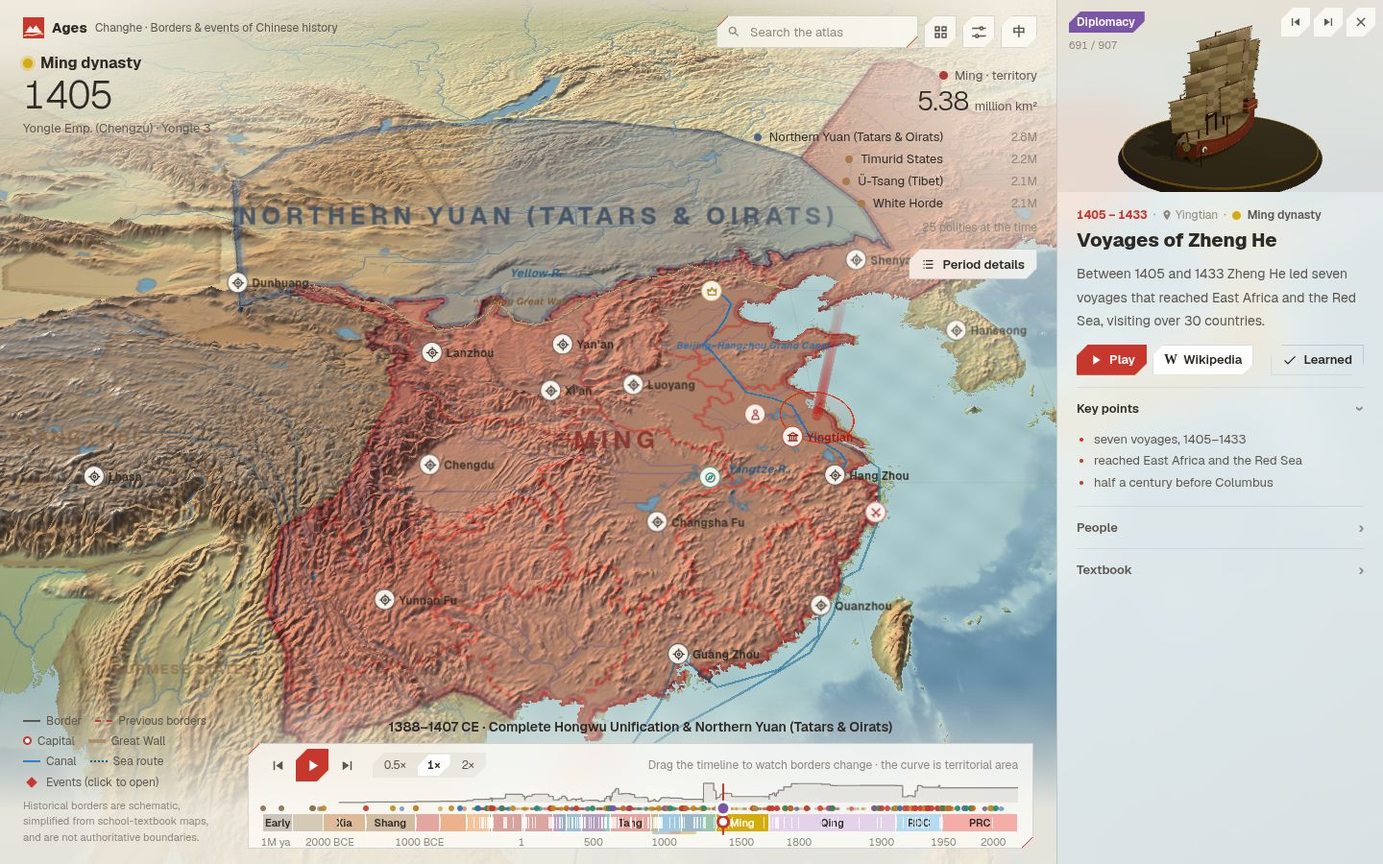
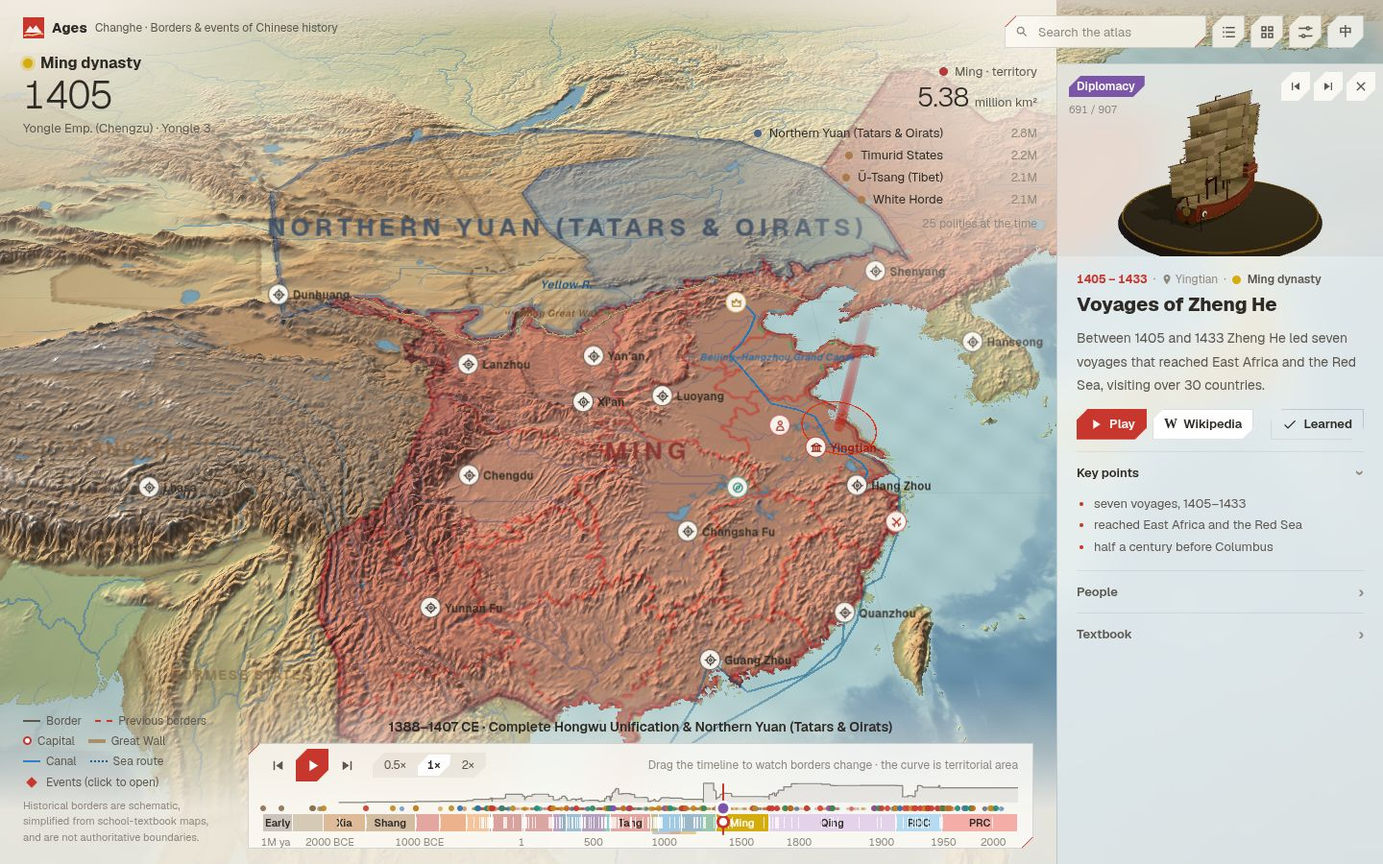
Fixed top-right toolbar with the period-details button; drawer opens below it
- One toolbar row (search, details, hub, settings, language) stays in the corner; the drawer starts under it
- No hover tooltip right after a click opens a card until the pointer moves
- Harden the journeys e2e pin hover against the camera settling

diff --git a/src/client/styles.css b/src/client/styles.css
@@ -46,6 +46,7 @@
   --ease-out: cubic-bezier(.2, .8, .2, 1);
   --gap: 12px;
   --pw: 340px;
+  --bar-h: 66px; /* the toolbar row and its margins: the drawer and the period figures start below it */
   --scrim: rgba(246, 241, 231, 0.88);
   --k-prehistory: #8a6f52; --k-politics: #c08a1e; --k-war: #c8372d; --k-reform: #2f8a57; --k-culture: #2f6fb0;
   --k-science: #1c8c7c; --k-economy: #c06a24; --k-diplomacy: #7b55a8; --k-revolution: #d23f2f;
@@ -374,7 +375,9 @@ b.w { font-family: 'Linux Libertine', 'Times New Roman', serif; font-weight: 700
 .tl-ruler:empty { display: none; }
 
 /* tools (top right): search · study hall · settings · language, with their popovers below */
-.hud-tr { top: 16px; right: 20px; width: 340px; display: flex; flex-direction: column; align-items: flex-end; }
+/* the toolbar: one row fixed in the top-right corner over the map and the drawer; its popovers drop below it */
+.bar { position: absolute; top: 16px; right: 20px; z-index: 9; }
+.hud-tr { top: var(--bar-h); right: 20px; width: 340px; display: flex; flex-direction: column; align-items: flex-end; }
 .tools { display: flex; align-items: center; gap: 6px; }
 .tools > .ib { width: 34px; height: 34px; background: var(--panel); border: 1px solid var(--rule-2); -webkit-backdrop-filter: var(--glass); backdrop-filter: var(--glass); }
 .tools > .ib:hover { background: var(--panel-solid); }
@@ -408,7 +411,7 @@ b.w { font-family: 'Linux Libertine', 'Times New Roman', serif; font-weight: 700
 .hits .yr { color: var(--ink-3); font-size: var(--t-2xs); font-variant-numeric: tabular-nums; }
 
 /* the period's figures (top right, under the tools): realm area in large light type, the largest coexisting polities */
-.hud-stats { margin-top: 20px; display: flex; flex-direction: column; align-items: flex-end; text-align: right; transition: opacity .4s; }
+.hud-stats { display: flex; flex-direction: column; align-items: flex-end; text-align: right; transition: opacity .4s; }
 .st-k { margin: 0; display: flex; align-items: center; gap: 7px; font-size: var(--t-s); color: var(--ink-2); }
 .st-k i { width: 9px; height: 9px; border-radius: 50%; background: var(--c); }
 .st-n { margin: 4px 0 0; display: flex; align-items: baseline; gap: 6px; }
@@ -420,12 +423,6 @@ b.w { font-family: 'Linux Libertine', 'Times New Roman', serif; font-weight: 700
 .st-pol small { min-width: 7.5em; text-align: right; font-size: var(--t-xs); color: var(--ink-3); font-variant-numeric: tabular-nums; }
 .st-pol:hover span { color: var(--zhu); }
 .st-c { margin: 6px 0 0; font-size: var(--t-xs); color: var(--ink-3); }
-.st-more {
-  margin-top: 14px; display: inline-flex; align-items: center; gap: 7px; height: 32px; padding: 0 12px; border: 1px solid var(--rule-2);
-  background: var(--panel); -webkit-backdrop-filter: var(--glass); backdrop-filter: var(--glass); font-size: var(--t-s); font-weight: 600; color: var(--ink);
-}
-.st-more .ic { width: 15px; height: 15px; fill: currentColor; }
-.st-more:hover, .st-more.on { color: var(--zhu); background: var(--panel-solid); --edge: var(--zhu); }
 
 /* the foot: line key (left) and the phase line / story caption over the timeline (centre) */
 .hud-bot { left: 24px; right: 24px; bottom: 16px; display: grid; grid-template-columns: 230px minmax(0, 1fr) 230px; gap: 24px; align-items: end; }
@@ -511,8 +508,8 @@ b.w { font-family: 'Linux Libertine', 'Times New Roman', serif; font-weight: 700
    details at the base, then whatever was opened last on top (card, textbook, reader, quiz); only the top view is drawn,
    so closing it reveals the one beneath. */
 .panel {
-  position: absolute; top: 0; right: 0; bottom: 0; width: var(--pw); z-index: 8; background: var(--panel); color: var(--ink);
-  -webkit-backdrop-filter: var(--glass); backdrop-filter: var(--glass); border-left: 1px solid var(--rule-2);
+  position: absolute; top: var(--bar-h); right: 0; bottom: 0; width: var(--pw); z-index: 8; background: var(--panel); color: var(--ink);
+  -webkit-backdrop-filter: var(--glass); backdrop-filter: var(--glass); border-left: 1px solid var(--rule-2); border-top: 1px solid var(--rule-2);
   transform: translateX(100%); visibility: hidden; transition: transform .35s var(--ease-out), visibility 0s .35s;
 }
 .panel.on { transform: none; visibility: visible; transition: transform .35s var(--ease-out); }
@@ -855,11 +852,11 @@ i.seen { color: var(--k-economy); font-style: normal; margin-left: auto; }
 /* ================================================================ narrower screens */
 /* ================================================================ small cut-corner slabs: buttons, chips, map labels
    (after the component rules so their background shorthands don't drop the cut lines) */
-.btn, .chip, .type-chip, .badge, .tag, .tl-play, .ib, .hub-card, .opt, .qz-mode, .sw, .stats > div, .seg, .seg button, .tabs, .tabs button, .st-more, .pq-opt {
+.btn, .chip, .type-chip, .badge, .tag, .tl-play, .ib, .hub-card, .opt, .qz-mode, .sw, .stats > div, .seg, .seg button, .tabs, .tabs button, .pq-opt {
   --cut: 6px; border-radius: 0 !important; clip-path: var(--pp-clip);
 }
 .ib, .seg button, .tabs button { --cut: 5px; }
-.btn, .hub-card, .opt, .qz-mode, .sw, .chip, .tools > .ib, .st-more { background-image: var(--pp-cuts); --edge: var(--rule-2); }
+.btn, .hub-card, .opt, .qz-mode, .sw, .chip, .tools > .ib { background-image: var(--pp-cuts); --edge: var(--rule-2); }
 .btn:focus-visible, .chip:focus-visible, .ib:focus-visible, .hub-card:focus-visible, .opt:focus-visible, .seg button:focus-visible, .tabs button:focus-visible { outline-offset: -2px; }
 .btn.primary, .sw.on, .qz-mode.on, .opt.no, .chip.link:hover { --edge: var(--zhu); }
 .opt.ok { --edge: var(--ok); }
@@ -869,7 +866,7 @@ i.seen { color: var(--k-economy); font-style: normal; margin-left: auto; }
   .tl-hint { display: none; }
   #app.panel-on:not(.story-on) .hud-bot { grid-template-columns: minmax(0, 1fr); }
   #app.panel-on .hud-bl { display: none; }
-  #app.panel-on .hud-stats > :not(.st-more) { display: none; }
+  #app.panel-on .hud-stats { display: none; }
 }
 @media (max-width: 960px) {
   .hud-bot, #app.panel-on:not(.story-on) .hud-bot { grid-template-columns: minmax(0, 1fr); }
@@ -888,13 +885,11 @@ i.seen { color: var(--k-economy); font-style: normal; margin-left: auto; }
   .tl-era { font-size: var(--t-m); }
   .tl-year { font-size: var(--t-2xl); }
   .tl-ruler { font-size: var(--t-xs); }
-  .hud-tr { top: 12px; right: 10px; width: auto; }
+  .bar { top: 12px; right: 10px; }
   .tools { gap: 4px; }
-  .search, .search:focus-within { width: 132px; }
+  .search, .search:focus-within { width: 112px; }
   .hits, .menu { position: fixed; top: 56px; left: 8px; right: 8px; width: auto; max-height: calc(100% - var(--tl-b, 120px) - 64px); }
-  .hud-stats { margin-top: 12px; }
-  .hud-stats > :not(.st-more) { display: none; }
-  .st-more { margin-top: 0; }
+  .hud-tr { display: none; }
   .hud-bot { left: 8px; right: 8px; bottom: 8px; gap: 6px; }
   .amb { font-size: var(--t-s); }
   .tl { padding: 2px 10px 0; }

diff --git a/src/client/ui/period.ts b/src/client/ui/period.ts
@@ -10,7 +10,7 @@ import { periodQuestion } from '../../shared/lib/quiz.ts';
 import { eraAt, formatYear } from '../../shared/lib/timeline.ts';
 import { lang, t, type Key } from '../lib/i18n.ts';
 import { load, save } from '../lib/storage.ts';
-import { fill, h, icon, iconBtn } from './dom.ts';
+import { fill, h, iconBtn } from './dom.ts';
 
 const ROLE_ORDER: Polity['role'][] = ['main', 'rival', 'occupied', 'protectorate', 'neighbor'];
 const WORK_COLOR: Record<string, string> = { wall: '#a8916a', canal: '#2f7fc4', road: '#8a5a2b', sea: '#1f5f8b' };
@@ -26,7 +26,8 @@ function areaParts(k: number, l: Lang): [string, string] {
 
 /**
  * The territorial period at the timeline's year, shown at three depths:
- * - `stats` (map, top right): the realm's area in large type, the largest coexisting polities and the 时期详情 button;
+ * - `btn` (the top-right toolbar): the 时期详情 toggle;
+ * - `stats` (map, top right, under the toolbar): the realm's area in large type and the largest coexisting polities;
  * - `line` (map, bottom centre): the phase title as an ambient caption;
  * - `key` (map, bottom left): the line legend and the border disclaimer;
  * - `view` (the drawer's base view, 时期详情), by priority: the overview (span, phase stepper, title, dynasty · capital ·
@@ -47,7 +48,7 @@ export class Period {
   private check: HTMLDetailsElement;
   private checkSum: HTMLElement;
   private checkBody: HTMLElement;
-  private moreBtn: HTMLButtonElement;
+  readonly btn: HTMLButtonElement;
   private sig = '';
   private year: Year = 0;
   onYear: (y: Year) => void = () => {};
@@ -59,7 +60,8 @@ export class Period {
   onClose: () => void = () => {};
 
   constructor() {
-    this.moreBtn = h('button', { type: 'button', class: 'st-more', 'aria-expanded': 'false', onclick: () => this.onDetails() }, icon('list'), h('span'));
+    this.btn = iconBtn('list', t('details'), () => this.onDetails(), 'b-details');
+    this.btn.setAttribute('aria-expanded', 'false');
     this.stats = h('div', { class: 'hud-stats' });
     this.line = h('button', { type: 'button', class: 'amb', onclick: () => this.onDetails() });
     this.key = h('div', { class: 'map-key' });
@@ -83,8 +85,8 @@ export class Period {
 
   /** Marks the 时期详情 button pressed while the view is open. */
   pressed(on: boolean): void {
-    this.moreBtn.classList.toggle('on', on);
-    this.moreBtn.setAttribute('aria-expanded', String(on));
+    this.btn.classList.toggle('on', on);
+    this.btn.setAttribute('aria-expanded', String(on));
   }
 
   setYear(y: Year): void {
@@ -108,7 +110,7 @@ export class Period {
   // ------------------------------------------------------------ map overlay
 
   private renderStats(ph: Phase | null): void {
-    if (!ph) { fill(this.stats, this.moreBtn); return; }
+    if (!ph) { fill(this.stats); return; }
     const s = ph.snap, L = lang;
     const list = this.polities(s);
     const main = list.find(p => p.role === 'main') ?? list[0];
@@ -124,8 +126,7 @@ export class Period {
       area ? h('p', { class: 'st-k' }, h('i', { style: `--c:${main?.color ?? era?.color ?? '#888'}` }), h('span', { text: t('realmArea', { p: main?.name ?? (era ? tr(era.short, L) : '') }) })) : null,
       area ? h('p', { class: 'st-n' }, h('b', { text: num }), h('span', { text: unit })) : null,
       others.length ? h('ul', { class: 'st-pols' }, ...others.map(p => h('li', {}, this.polBtn(p, 'st-pol')))) : null,
-      n > 1 ? h('p', { class: 'st-c', text: t('coexistN', { n }) }) : null,
-      this.moreBtn);
+      n > 1 ? h('p', { class: 'st-c', text: t('coexistN', { n }) }) : null);
   }
 
   private renderKey(works: string[]): void {
@@ -246,7 +247,7 @@ export class Period {
     (this.view.querySelector('.view-head h2') as HTMLElement).textContent = t('details');
     const x = this.view.querySelector<HTMLElement>('.pv-x')!;
     x.title = t('close'); x.setAttribute('aria-label', t('close'));
-    (this.moreBtn.querySelector('span') as HTMLElement).textContent = t('details');
+    this.btn.title = t('details'); this.btn.setAttribute('aria-label', t('details'));
     this.key.setAttribute('aria-label', t('legend'));
     this.line.title = t('details');
     this.sig = '';

diff --git a/src/client/main.ts b/src/client/main.ts
@@ -190,8 +190,8 @@ class App {
     this.period.mount(this.chronicle.el);
     this.timeline.onRender = y => { this.chronicle.update(y); this.period.setYear(y); };
 
-    // Level 1 — the map overlay: headline (brand · era · year · reign) top left, tools and the period's figures top
-    // right, the line key bottom left, the phase line / story caption and the timeline bottom centre.
+    // Level 1 — the map overlay: headline (brand · era · year · reign) top left, one toolbar row (search · 时期详情 ·
+    // study hall · settings · language) fixed top right with the period's figures under it, the line key bottom left, the phase line / story caption and the timeline bottom centre.
     // Level 2 — one right-hand drawer of stacked views (period details at the base; card, textbook, reader, quiz).
     // Level 3 — popovers under the tools (study hall, settings) and the help dialog.
     this.langBtn = h('button', { type: 'button', class: 'ib lang', 'data-act': 'lang', onclick: () => setLang(lang === 'zh' ? 'en' : 'zh') });
@@ -202,11 +202,13 @@ class App {
     document.addEventListener('fullscreenchange', () => fullBtn.classList.toggle('on', !!document.fullscreenElement));
     this.settings.extra = h('div', { class: 'set-extra' }, this.music.el, fullBtn);
     this.settings.render();
-    const tools = h('div', { class: 'tools' }, this.search.el, hubBtn, setBtn, this.langBtn);
+    const tools = h('div', { class: 'tools' }, this.search.el, this.period.btn, hubBtn, setBtn, this.langBtn);
+    // the toolbar stays in the top-right corner; the drawer opens below it and the map overlay shrinks beside it
+    const bar = h('div', { class: 'bar' }, tools, this.hub.el, this.settings.el);
     this.brand = h('div', { class: 'brand' }, h('span', { class: 'logo', 'aria-hidden': 'true' }), h('b', { text: 'Ages' }), h('span', { class: 'brand-k' }));
     const hud = h('div', { class: 'hud' },
       h('div', { class: 'hud-tl' }, this.brand, this.timeline.head),
-      h('div', { class: 'hud-tr' }, tools, this.hub.el, this.settings.el, this.period.stats),
+      h('div', { class: 'hud-tr' }, this.period.stats),
       h('div', { class: 'hud-bot' },
         h('div', { class: 'hud-bl' }, this.period.key),
         h('div', { class: 'hud-bc' }, this.period.line, this.caption.el, this.timeline.el)));
@@ -222,7 +224,7 @@ class App {
       if ((!this.hub.el.hidden || !this.settings.el.hidden) && !tools.contains(n) && !this.hub.el.contains(n) && !this.settings.el.contains(n)) this.pop(null);
     });
 
-    this.root.append(hud, this.panel.el, this.help.el);
+    this.root.append(hud, this.panel.el, bar, this.help.el);
     this.relabel();
     onLang(l => this.onLang(l));
 

diff --git a/src/client/scene/atlas.ts b/src/client/scene/atlas.ts
@@ -470,6 +470,9 @@ export class Atlas {
 
   private bindPointer(canvas: HTMLCanvasElement): void {
     let down: { x: number; y: number; t: number } | null = null;
+    // after a click opens something the tooltip stays away until the pointer really moves (a hover queued before the click must not bring it back)
+    let mutedAt: { x: number; y: number } | null = null;
+    const mute = (e: PointerEvent) => { mutedAt = { x: e.clientX, y: e.clientY }; this.setHover(null); };
     canvas.addEventListener('pointerdown', e => { down = { x: e.clientX, y: e.clientY, t: performance.now() }; });
     canvas.addEventListener('pointerup', e => {
       if (!down) return;
@@ -482,9 +485,9 @@ export class Atlas {
       if (this.pickHandler) { this.pickHandler(ll[0], ll[1]); return; }
       // a model under the pointer opens its card; otherwise a click near a pin selects it (pins are small on touch)
       const mark = this.pickMark(e.clientX, e.clientY);
-      if (mark) { this.setHover(null); mark.open(); return; }
+      if (mark) { mute(e); mark.open(); return; }
       const near = this.nearestPin(e.clientX, e.clientY);
-      if (near) { this.setHover(null); near.open(); }
+      if (near) { mute(e); near.open(); }
     });
     let pending = false;
     let last = { x: 0, y: 0 };
@@ -493,11 +496,13 @@ export class Atlas {
       this.overCanvas = true;
       if (e.buttons || e.pointerType === 'touch') { if (this.hover) this.setHover(null); return; }
       last = { x: e.clientX, y: e.clientY };
+      if (mutedAt && Math.hypot(last.x - mutedAt.x, last.y - mutedAt.y) < 4) return;
+      mutedAt = null;
       if (pending) return;
       pending = true;
       requestAnimationFrame(() => {
         pending = false;
-        if (!this.overCanvas) return;
+        if (!this.overCanvas || mutedAt) return;
         const m = this.pickMark(last.x, last.y);
         if (m) return this.setHover({ target: m });
         // over open land: the same tooltip names the administrative area (admin layer) or the polity under the pointer

diff --git a/tests/e2e/app.spec.ts b/tests/e2e/app.spec.ts
@@ -233,15 +233,18 @@ test.describe('Ages atlas', () => {
     await page.mouse.click(free!.x, free!.y);
     await expect(card.locator('h2')).toHaveText(free!.title);
     await expect(tip).toBeHidden();
-    // event pins are kind badges: hovering one shows its title in the same tooltip
-    const pinId = await page.evaluate(() => [...document.querySelectorAll<HTMLElement>('.labels .pin[data-id][aria-pressed=false]')].find(el => {
-      const r = el.getBoundingClientRect(), x = r.left + r.width / 2, y = r.top + r.height / 3;
-      return r.width > 0 && document.elementFromPoint(x, y)?.closest('.pin') === el;
-    })?.dataset.id);
-    const pin = page.locator(`.labels .pin[data-id="${pinId}"]`);
-    await pin.hover();
-    await expect(tip).toBeVisible();
-    await expect(tip.locator('b')).toHaveText((await pin.getAttribute('aria-label'))!);
+    // event pins are kind badges: hovering one shows its title in the same tooltip (re-picked while the camera settles on the card)
+    await expect.poll(async () => {
+      const pinId = await page.evaluate(() => [...document.querySelectorAll<HTMLElement>('.labels .pin[data-id][aria-pressed=false]')].find(el => {
+        const r = el.getBoundingClientRect(), x = r.left + r.width / 2, y = r.top + r.height / 3;
+        return r.width > 0 && document.elementFromPoint(x, y)?.closest('.pin') === el;
+      })?.dataset.id);
+      if (!pinId) return false;
+      const pin = page.locator(`.labels .pin[data-id="${pinId}"]`);
+      if (!await pin.hover({ timeout: 2000 }).then(() => true, () => false)) return false;
+      await page.waitForTimeout(300);
+      return await tip.isVisible() && (await tip.locator('b').textContent()) === await pin.getAttribute('aria-label');
+    }, { timeout: 30_000 }).toBe(true);
     expect(errs).toEqual([]);
   });
 

diff --git a/docs/product/spec.md b/docs/product/spec.md
@@ -21,7 +21,7 @@ not their size or text decoration.
 | Scene | 3D terrain relief of East Asia, territory overlay with crossfades and borders repainted crisply for the area in view when zoomed in (modern maps traced from the official provincial outlines), polity labels, period place, river and lake names (a modern name is never printed before it was in use; shifted Yellow River courses and vanished lakes show only in their years), one label type scale ([typography](../design/typography.md)), finer terrain relief streamed in close up, models and labels that grow as you zoom in, a capital model in its period's architecture (Erlitou halls, Zhou terraces, Qin–Han que palace, Tang Hanyuan Hall, Song Xuande Gate, Yuan Dadu, the Forbidden City, then a monument); dynasty people, buildings, customs, foods and event landmarks use one of two forms: compact circular marker or model with a thin type-coloured base ring. Importance controls display priority, and models and labels share screen-space avoidance; only geographical names remain on the map. Clickable names have a small circular location anchor, replaced by their model's base ring; name and model share one tooltip, card and selection ring. Related event pins step aside, and geographical cards retain dynasty-specific background and reading links. Hover or keyboard focus shows a short tooltip and gentle highlight; hovering a territory names its polity, role and area; click, tap, Enter or Space opens the card directly. Selection persists through zoom and takes priority over surrounding content. Routes, trails and rings are painted on the map as unbroken lines and perfect circles that hills never cut; pan / rotate / zoom (mouse, touch, keyboard) |
 | Timeline | Non-linear axis about 1 Ma → today; era bands (click opens the era card); territorial-phase ticks; dots for all 907 events with tooltips; a faint stepped curve of the dynasty's territorial area per phase; floating year flag with reign era; drag, click, arrow keys (Shift ±10), auto-play at 0.5× / 1× / 2×; ‹ › step between events and phases. Its readout is the map's headline (top left): era, the year, reign; the realm's area and largest polities sit top right |
 | Chronicle | 本时期大事 section of the period details, listing the dynasty's events (all / textbook filter); current year highlighted and auto-scrolled; ▶ scripted story |
-| Period details | 时期详情 drawer view (opened from the top-right button or the phase line): phase i/N with step bars, years, capital, area, phase note, every coexisting polity with its area (hover highlights, click flies); line key on the map's lower left; previous phase drawn as a dashed ghost border; borders grow from the old ones when the phase changes |
+| Period details | 时期详情 drawer view (opened from the 时期详情 button in the top-right toolbar or the phase line): phase i/N with step bars, years, capital, area, phase note, every coexisting polity with its area (hover highlights, click flies); line key on the map's lower left; previous phase drawn as a dashed ghost border; borders grow from the old ones when the phase changes |
 | Period check (随堂检测) | One fixed multiple-choice question per phase in the legend (capital, an event of the phase or a polity on the map), A–D options, right/wrong marking with an explanation, "next period" and saved progress (answered / right of all phases), in the period details |
 | Event card | Info panel with a live 3D model preview (turntable); category, year, place, importance, watched status; summary; key points; people; textbook units; prev/next; Play; Wikipedia; mark as learned |
 | Era card | Era summary, capital, dates and length, prev/next era, Wikipedia, territorial overview, the era's people, buildings, customs and foods (its events are in the chronicle beside it) |

diff --git a/README.md b/README.md
@@ -30,7 +30,7 @@ It is an original 3D re-imagining inspired by [jiangshan-map](https://github.com
 * **Year headline and area curve**: the dynasty, a large year and the reign era head the map's top left; the realm's area (唐疆域面积 584 万平方千米) and the largest coexisting polities sit top right, and a faint curve over the timeline traces the area phase by phase, so rise and fall show at a glance (areas precomputed by `npm run data:areas`).
 * **Year stepper**: the timeline has a floating year flag (公元1415年 · 永乐十三年) and ‹ › buttons beside play to step to the previous / next event or phase; click the headline year to type one (1415, -221, 前221, 221 BC). The arrow keys do the same (Shift = ±10 years).
 * **Guqin music (雅乐)**: optional background guqin tracks from the settings menu.
-* **Modern interface** in three levels, with the full-screen relief map always in view: (1) text set straight on the map over soft scrims — the headline (dynasty · year · reign) top left, search · **hub** (learn / quiz / journeys / help) · **settings** (map style, layers, music, full screen) · language and the period's figures top right, the line key bottom left, the phase line and the timeline bottom centre; (2) one right-hand drawer whose views stack — period details at the base, the card (with a live 3D model preview), textbook, reader or quiz on top; (3) popovers and the help dialog. The drawer slides away during stories (captions take the phase line's place), and the camera re-frames itself so the subject is never under it. On phones the drawer is a bottom sheet above the timeline.
+* **Modern interface** in three levels, with the full-screen relief map always in view: (1) text set straight on the map over soft scrims — the headline (dynasty · year · reign) top left, one fixed toolbar row top right — search · **时期详情** · **hub** (learn / quiz / journeys / help) · **settings** (map style, layers, music, full screen) · language — with the period's figures under it, the line key bottom left, the phase line and the timeline bottom centre; (2) one right-hand drawer, opening under the toolbar, whose views stack — period details at the base, the card (with a live 3D model preview), textbook, reader or quiz on top; (3) popovers and the help dialog. The drawer slides away during stories (captions take the phase line's place), and the camera re-frames itself so the subject is never under it. On phones the drawer is a bottom sheet above the timeline.
 * **No anachronistic names**: the map only prints a place name in the years it was actually used (e.g. 西安 only from 1369, 上海 from 1292, 北京 from 1403); before that it shows the period name (长安, 汴京, 燕京 …) or nothing.
 * **Map styles**: paper (light relief, default), ink (dark) and plain.
 * **Shareable deep links**: `#e=<event>`, `#y=<year>`, `#p=<place>`, `#person=<id>`, `#life=<id>`, `#j=<journey>`, `&lang=zh|en`. The same keys also work in the query string (`?year=1415`).

diff --git a/docs/design/map-design.md b/docs/design/map-design.md
@@ -200,8 +200,8 @@ The interface has three levels; the map is always in view and is never covered b
 
 | Level | Where | Contents |
 |---|---|---|
-| 1 · Map overlay | text straight on the map over soft edge scrims, no boxes | top left: brand kicker, era (click → era card), the year in large light type (a readout, not an input), reign; top right: search · hub · settings · language, then the period's figures (realm area, the four largest other polities, number of coexisting polities) and the 时期详情 button; bottom left: line key and disclaimer; bottom centre: the phase title (click → 时期详情) and the timeline bar |
-| 2 · Drawer | one full-height panel on the right (340 px; 320 px under 1180 px; a bottom sheet above the timeline on phones) | stacked views: 时期详情 at the base, then the card, textbook, reader or quiz — only the latest is drawn; closing a view reveals the one beneath |
+| 1 · Map overlay | text straight on the map over soft edge scrims, no boxes | top left: brand kicker, era (click → era card), the year in large light type (a readout, not an input), reign; top right: one fixed toolbar row — search · 时期详情 · hub · settings · language — that never moves (the drawer opens below it), then under it the period's figures (realm area, the four largest other polities, number of coexisting polities), which shift left beside the drawer; bottom left: line key and disclaimer; bottom centre: the phase title (click → 时期详情) and the timeline bar |
+| 2 · Drawer | one panel on the right from under the toolbar to the bottom edge (340 px; 320 px under 1180 px; a bottom sheet above the timeline on phones) | stacked views: 时期详情 at the base, then the card, textbook, reader or quiz — only the latest is drawn; closing a view reveals the one beneath |
 | 3 · Popovers | under the tool row | hub (learn, quiz, help, journeys), settings (map style, layers, music, full screen); help dialog |
 
 Trade-offs: the first screen carries only what answers "when, who, how big" — the year, dynasty, reign, realm area and
